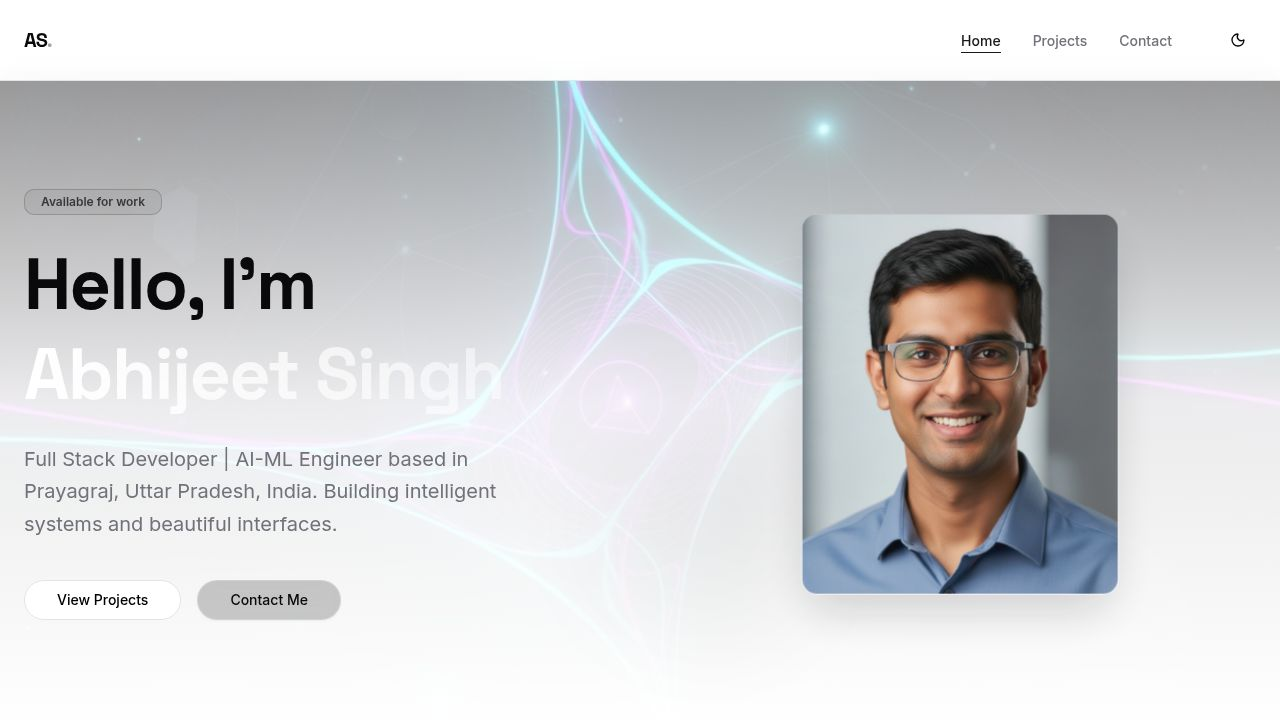
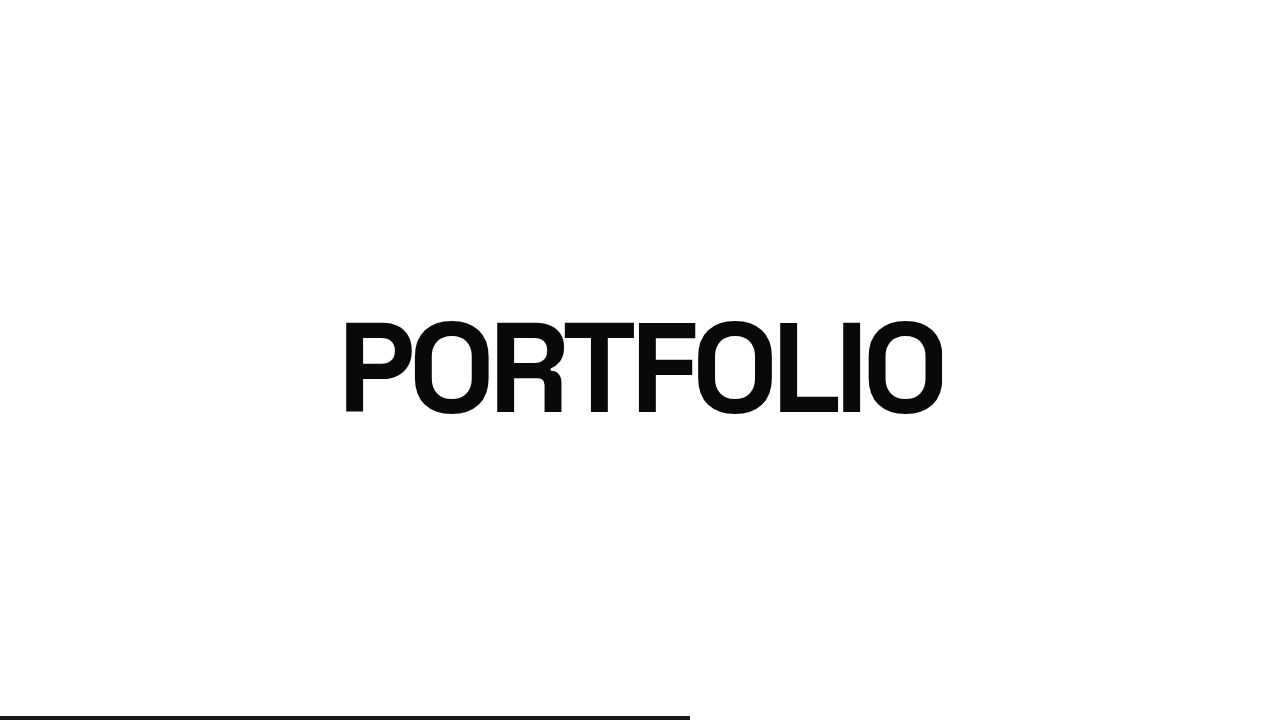
Optimize website interface and improve link handling
Replaced external SVG noise file with Base64 embedded SVG in Home.tsx, and updated Link components in Layout.tsx to use the new `asChild` prop for better integration with Button components.

Replit-Commit-Author: Agent
Replit-Commit-Session-Id: 64261516-00b7-4990-9519-44a191d221cf
Replit-Commit-Checkpoint-Type: full_checkpoint
Replit-Commit-Event-Id: 7a645f70-339d-495a-bf35-6b84f0c00c46
Replit-Commit-Screenshot-Url: https://storage.googleapis.com/screenshot-production-us-central1/c46b20ed-48b4-47f2-8849-7db8d0bba7ad/64261516-00b7-4990-9519-44a191d221cf/phP93j7
Replit-Helium-Checkpoint-Created: true

diff --git a/client/src/pages/Home.tsx b/client/src/pages/Home.tsx
@@ -51,7 +51,7 @@ export default function Home() {
             className="w-full h-full object-cover opacity-40 dark:opacity-40 opacity-10 scale-110"
           />
           <div className="absolute inset-0 bg-gradient-to-t from-background via-background/80 to-transparent" />
-          <div className="absolute inset-0 bg-[url('https://grainy-gradients.vercel.app/noise.svg')] opacity-20 brightness-100 contrast-150 mix-blend-overlay"></div>
[1 lines of base64/hex data omitted]
         </motion.div>
 
         <div className="container mx-auto px-6 relative z-10 grid md:grid-cols-2 gap-12 items-center pt-20">
@@ -84,16 +84,16 @@ export default function Home() {
             </motion.p>
 
             <motion.div variants={item} className="flex flex-wrap gap-4 pt-4">
-              <Link href="/projects">
-                <Button size="lg" className="rounded-full px-8 h-14 text-lg bg-primary text-primary-foreground hover:bg-primary/90 hover:scale-105 transition-all duration-300 shadow-lg shadow-primary/20">
+              <Button asChild size="lg" className="rounded-full px-8 h-14 text-lg bg-primary text-primary-foreground hover:bg-primary/90 hover:scale-105 transition-all duration-300 shadow-lg shadow-primary/20">
+                <Link href="/projects">
                   View Projects <ArrowRight className="ml-2 w-5 h-5" />
-                </Button>
-              </Link>
-              <Link href="/contact">
-                <Button size="lg" variant="outline" className="rounded-full px-8 h-14 text-lg border-border bg-background/50 backdrop-blur-sm hover:bg-background/80 hover:scale-105 transition-all duration-300">
+                </Link>
+              </Button>
+              <Button asChild size="lg" variant="outline" className="rounded-full px-8 h-14 text-lg border-border bg-background/50 backdrop-blur-sm hover:bg-background/80 hover:scale-105 transition-all duration-300">
+                <Link href="/contact">
                   Contact Me
-                </Button>
-              </Link>
+                </Link>
+              </Button>
             </motion.div>
           </motion.div>
 

diff --git a/client/src/components/Layout.tsx b/client/src/components/Layout.tsx
@@ -37,19 +37,20 @@ export function Layout({ children }: { children: React.ReactNode }) {
       {/* Navigation */}
       <header className="fixed top-0 w-full z-50 glass">
         <div className="container mx-auto px-6 h-20 flex items-center justify-between">
-          <Link href="/">
-            <a className="text-xl font-heading font-bold tracking-tighter hover:opacity-80 transition-opacity">
-              AS<span className="text-primary/40">.</span>
-            </a>
+          <Link href="/" className="text-xl font-heading font-bold tracking-tighter hover:opacity-80 transition-opacity">
+            AS<span className="text-primary/40">.</span>
           </Link>
 
           {/* Desktop Nav */}
           <nav className="hidden md:flex items-center gap-8">
             {links.map((link) => (
-              <Link key={link.href} href={link.href}>
-                <a className={`text-sm font-medium transition-colors hover:text-primary relative group ${
+              <Link 
+                key={link.href} 
+                href={link.href}
+                className={`text-sm font-medium transition-colors hover:text-primary relative group ${
                   location === link.href ? "text-primary" : "text-muted-foreground"
-                }`}>
+                }`}
+              >
                   {link.label}
                   {location === link.href && (
                     <motion.span 
@@ -57,7 +58,6 @@ export function Layout({ children }: { children: React.ReactNode }) {
                       className="absolute -bottom-1 left-0 w-full h-px bg-primary"
                     />
                   )}
-                </a>
               </Link>
             ))}
             
@@ -92,13 +92,13 @@ export function Layout({ children }: { children: React.ReactNode }) {
         >
           <nav className="flex flex-col gap-6 text-2xl font-heading font-light">
             {links.map((link) => (
-              <Link key={link.href} href={link.href}>
-                <a 
-                  onClick={() => setIsOpen(false)}
-                  className={location === link.href ? "text-primary" : "text-muted-foreground"}
-                >
+              <Link 
+                key={link.href} 
+                href={link.href}
+                onClick={() => setIsOpen(false)}
+                className={location === link.href ? "text-primary" : "text-muted-foreground"}
+              >
                   {link.label}
-                </a>
               </Link>
             ))}
           </nav>
